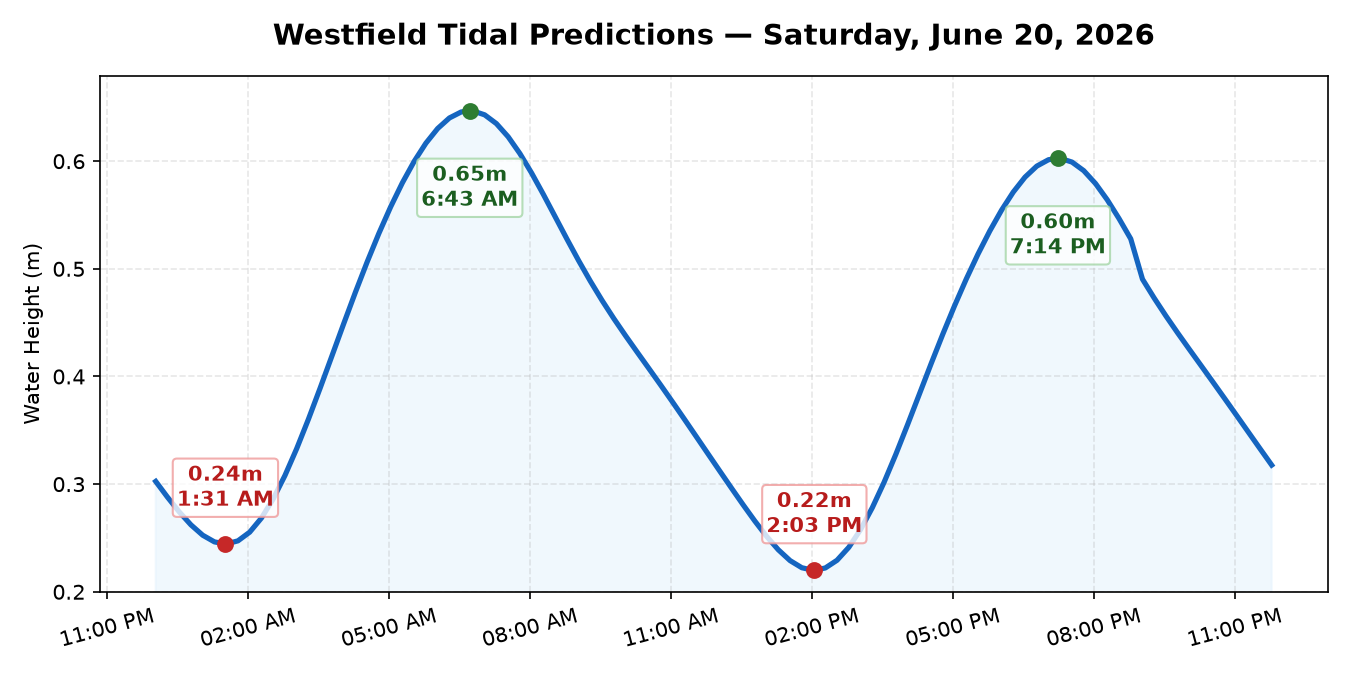
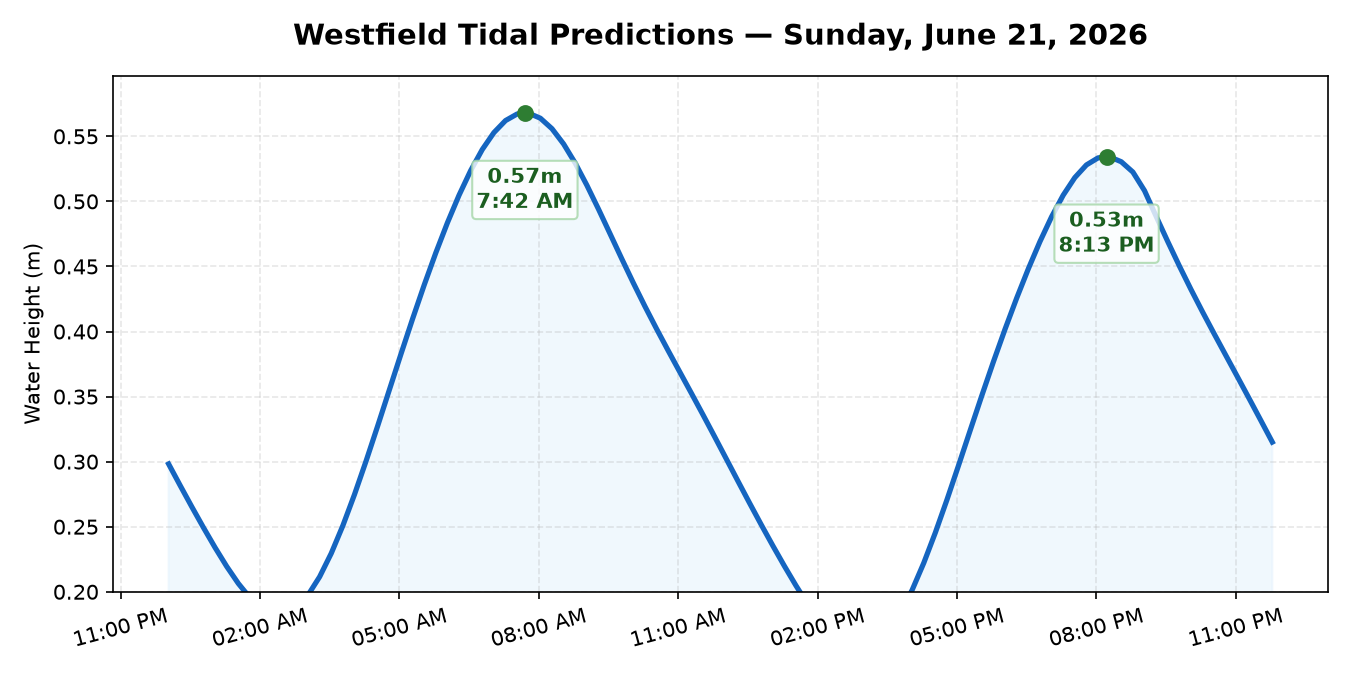
Automated Dashboard Update: Refreshed tide predictions

diff --git a/index.html b/index.html
@@ -46,16 +46,16 @@
 <body>
     <div class="container">
         <h1>Westfield Tide Station</h1>
-        <div class="date-sub">Saturday, June 20, 2026</div>
+        <div class="date-sub">Sunday, June 21, 2026</div>
         
         <div class="tide-lists">
             <div class="box">
                 <h3 class="high-title">▲ High Tides</h3>
-                <ul><li><strong>6:43 AM:</strong> 0.65m</li><li><strong>7:14 PM:</strong> 0.60m</li></ul>
+                <ul><li><strong>7:42 AM:</strong> 0.57m</li><li><strong>8:13 PM:</strong> 0.53m</li></ul>
             </div>
             <div class="box">
                 <h3 class="low-title">▼ Low Tides</h3>
-                <ul><li><strong>1:31 AM:</strong> 0.24m</li><li><strong>2:03 PM:</strong> 0.22m</li></ul>
+                <ul><li><strong>2:25 AM:</strong> 0.18m</li><li><strong>2:54 PM:</strong> 0.16m</li></ul>
             </div>
         </div>
 
